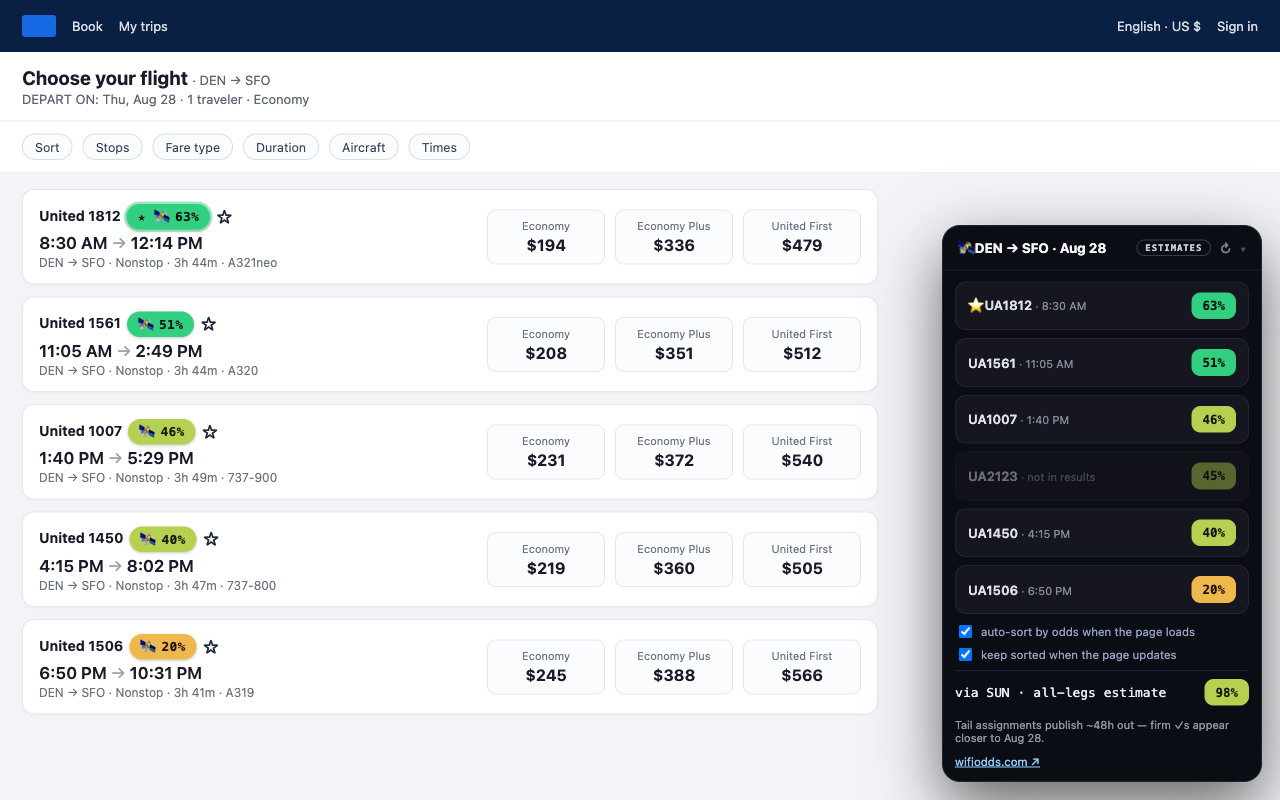
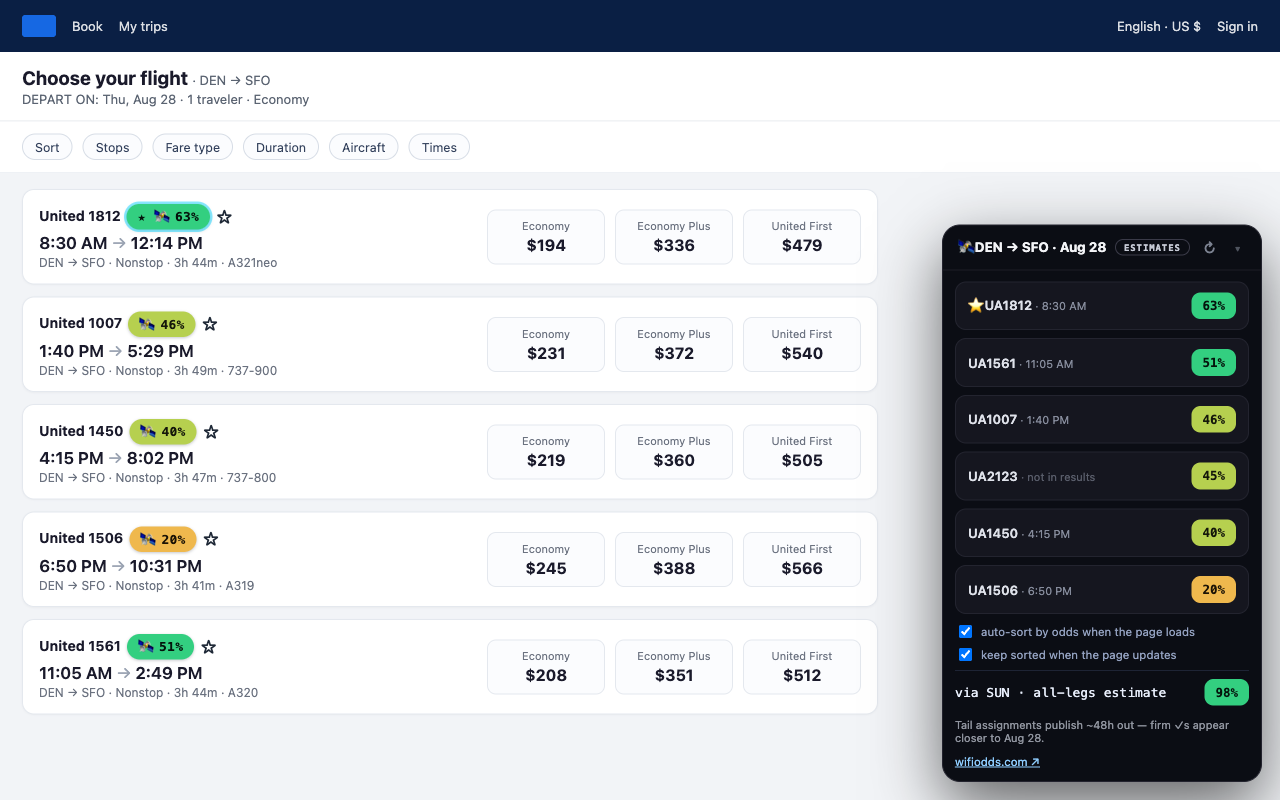
v2.2: address Codex restyle re-audit (4 P1 + 3 P2)
P1-01 panel/page no longer contradict: mergedFlights() unions route-history rows
with on-page per-flight odds (deduped, page value wins), so a visible flight is
never omitted by a stale route table. E2E asserts UA1596 ranks first.
P1-02 one ramp everywhere: best is a RING modifier (keeps its band colour), the
connection pill uses cls(joint), popup itinerary % uses pctClass.
P1-03 contrast: popup CTA near-black on the gradient; ghost rows dim only the
metadata, keeping flight number + pill >=4.5:1.
P2-01 a11y: header controls are real <button>s (aria-expanded, focus rings);
jump rows are role=button/tabindex with Enter/Space; ghost rows leave tab order.
P2-02 screenshots fail-closed (require panel+ESTIMATES+ramp; full popup, no clip).
P2-03 copy: 'nothing tracked' -> 'no account or ad tracking'.
P1-04 handled by build-store-bundle.sh (allowlist + 1280x800 check).
E2E 4/4 PASS incl. outage + first-rank.

diff --git a/extension/content.js b/extension/content.js
@@ -260,6 +260,24 @@
     return arr.sort((a, b) => b.prob - a.prob).slice(0, 6);
   }
 
+  /* United panel list = the route-history rows MERGED with the odds of the
+   * flights actually visible on the page, deduped by flight number. The on-page
+   * (current) value wins on a tie, so a flight the page shows can never be
+   * omitted just because a stale/partial route response left it out — the panel
+   * and the on-page badge can no longer contradict (Codex round-18 P1-01).
+   * Reduces to the on-page list when there is no route table (empty transcon). */
+  function mergedFlights() {
+    const map = new Map();
+    for (const f of (data && data.flights) || [])
+      if (typeof f.prob === "number") map.set(f.fn, { fn: f.fn, prob: f.prob });
+    for (const [fn, r] of registry.entries()) {
+      if (!r || !r.rowEl || !r.rowEl.isConnected) continue;
+      const hit = probMap.get(fn);
+      if (hit && typeof hit.prob === "number") map.set(fn, { fn, prob: hit.prob });
+    }
+    return [...map.values()].sort((a, b) => b.prob - a.prob).slice(0, 6);
+  }
+
   /* ── context: route + leg phase + date ── */
   function getContext() {
     if (NAVAN) return getNavanContext();
@@ -848,7 +866,9 @@
           el.dataset.uslBadged = "1";
           const b = document.createElement("span");
           const isBest = fn === bestFn && hit.prob >= 30 && !PAGE_PREDICT;
-          b.className = "usl-badge " + (isBest ? "usl-best-badge" : cls(hit.prob));
+          // "best" is a RING modifier on top of the ramp colour, never a colour
+          // replacement — a 30% best flight must stay amber, not turn green.
+          b.className = "usl-badge " + cls(hit.prob) + (isBest ? " usl-best" : "");
           b.textContent = (isBest ? "★ " : "") + "🛰 " + hit.prob + "%" + (hit.dep ? " ✓" : "");
           // "type" confidence = the tracker derived the odds from the aircraft
           // type/subfleet rather than this flight number's own history.
@@ -1031,17 +1051,21 @@
     if (!ctx) return;
     const p = document.createElement("div");
     p.className = "usl-panel";
-    chrome.storage.local.get("uslCollapsed", (v) => { if (v.uslCollapsed) p.classList.add("usl-collapsed"); });
-    const routeFlights = (data && data.flights || []).slice(0, 6);
-    // Alaska's route tool answers with prose, so the ranked list comes from the
-    // flights badged on the page (same path Navan uses). v2.2: united.com does
-    // the same when the route table is empty — it populates the panel from the
-    // on-page per-flight fallback odds, so an empty transcon shows a real ranked
-    // list of the flights actually in the results, not an empty state sitting
-    // above live badges (the contradiction Codex flagged).
-    const fromFallback = UNITED_FALLBACK && !ctx.navan && !routeFlights.length;
-    const flights = (ctx.navan || ((ALASKA || UNITED_FALLBACK) && !routeFlights.length))
-      ? navanTopFlights() : routeFlights;
+    chrome.storage.local.get("uslCollapsed", (v) => {
+      if (!v.uslCollapsed) return;
+      p.classList.add("usl-collapsed");
+      const cb = p.querySelector(".usl-x");
+      if (cb) { cb.setAttribute("aria-expanded", "false"); cb.setAttribute("aria-label", "Expand panel"); }
+    });
+    const hasRouteRows = !!(data && data.flights && data.flights.length);
+    // Navan/Alaska rank from the on-page badges (no route table). United MERGES
+    // the route-history rows with the on-page per-flight odds (mergedFlights), so
+    // a flight visible on the page is never omitted by a stale/partial route
+    // response — panel and page agree (Codex round-18 P1-01).
+    const flights = (ctx.navan || ALASKA) ? navanTopFlights() : mergedFlights();
+    // The "per-flight odds" caption shows when the list is carried purely by the
+    // on-page fallback (no route-history rows at all — the empty-transcon case).
+    const fromFallback = UNITED_FALLBACK && !ctx.navan && !hasRouteRows && flights.length > 0;
     // Display-only summary line from the tracker; escaped, never interpreted.
     const note = !flights.length && data && data.note ? data.note : "";
     const typed = flights.some((f) => { const h = probMap.get(f.fn); return h && h.conf === "type"; });
@@ -1068,11 +1092,12 @@
     p.innerHTML =
       `<header><span class="usl-rt">🛰 ${esc(ctx.o)} → ${esc(ctx.d)} · ${esc(fmtDate(ctx.date) || "WiFi odds")}${legTag}</span>` +
       `<span class="usl-rhs"><span class="usl-est" title="Historical estimates, cached up to 6h">ESTIMATES</span>` +
-      `<span class="usl-refresh" title="Refresh odds (bypass cache)">↻</span><span class="usl-x">▾</span></span></header>
+      `<button type="button" class="usl-refresh" aria-label="Refresh odds (bypass cache)" title="Refresh odds (bypass cache)">↻</button>` +
+      `<button type="button" class="usl-x" aria-expanded="true" aria-label="Collapse panel" title="Collapse">▾</button></span></header>
       <div class="usl-body">` +
       (flights.length
         ? flights.map((f, i) =>
-            `<div class="usl-row usl-jump" data-fn="${esc(f.fn)}">` +
+            `<div class="usl-row usl-jump" data-fn="${esc(f.fn)}" role="button" tabindex="0" aria-label="Jump to ${esc(f.fn)} on the page">` +
             `<span>${i === 0 ? "⭐ " : ""}${esc(f.fn)}${probMap.get(f.fn) && probMap.get(f.fn).dep ? " ✓" : ""}` +
             (isGuarded(f.fn) ? GUARD_MARK : "") +
             `<span class="usl-time" data-time="${esc(f.fn)}"></span></span>` +
@@ -1085,7 +1110,7 @@
         <label class="usl-keep-wrap" style="display:none;font-size:11.5px;color:#93a1c0;margin-top:4px;gap:6px;align-items:center;cursor:pointer">
         <input type="checkbox" class="usl-keep"> keep sorted when the page updates</label>` : "") +
       (itin ? `<div class="usl-row" style="border-top:1px solid rgba(148,178,255,.14);margin-top:6px;padding-top:8px">` +
-        `<span>via ${esc(itin.via.join("+"))} · all-legs estimate</span><span class="usl-badge usl-mid">${Math.round(itin.joint)}%</span></div>` : "") +
+        `<span>via ${esc(itin.via.join("+"))} · all-legs estimate</span><span class="usl-badge ${cls(Math.round(itin.joint))}">${Math.round(itin.joint)}%</span></div>` : "") +
       (deps.length ? `<div style="margin-top:8px;font-size:11px;opacity:.75">Confirmed tails (next ~72h): ` +
         deps.map((d) => `${esc(d.fn)} ${esc(d.date.slice(5))}`).join(" · ") + `</div>` :
         (ctx.date && daysOut(ctx.date) > 3 ? `<div style="margin-top:8px;font-size:11px;opacity:.6">Tail assignments publish ~48h out — firm ✓s appear closer to ${esc(fmtDate(ctx.date))}.</div>` : "")) +
@@ -1096,23 +1121,38 @@
       (typed ? `<span style="opacity:.55"> · odds derived from aircraft type</span>` : "") +
       (rel ? `<span style="opacity:.55"> · ✓ = confirmed Starlink tail</span>` : "") + `</div>` +
       `</div>`;
+    // Collapse control: a real <button> carrying aria-expanded. Clicking the
+    // header title (not a button) also toggles, for mouse convenience.
+    const collapseBtn = p.querySelector(".usl-x");
+    const toggleCollapse = () => {
+      const collapsed = p.classList.toggle("usl-collapsed");
+      collapseBtn.setAttribute("aria-expanded", String(!collapsed));
+      collapseBtn.setAttribute("aria-label", collapsed ? "Expand panel" : "Collapse panel");
+      chrome.storage.local.set({ uslCollapsed: collapsed });
+    };
+    collapseBtn.addEventListener("click", (ev) => { ev.stopPropagation(); toggleCollapse(); });
     p.querySelector("header").addEventListener("click", (ev) => {
-      if (ev.target.classList.contains("usl-refresh")) return;
-      p.classList.toggle("usl-collapsed");
-      chrome.storage.local.set({ uslCollapsed: p.classList.contains("usl-collapsed") });
+      if (ev.target.closest("button")) return;   // buttons handle themselves
+      toggleCollapse();
     });
-    p.querySelector(".usl-refresh").addEventListener("click", async (ev) => {
+    const refreshBtn = p.querySelector(".usl-refresh");
+    refreshBtn.addEventListener("click", async (ev) => {
       ev.stopPropagation();
-      ev.target.textContent = "…";
+      refreshBtn.textContent = "…";
       data = await loadData(ctx, true);
       indexData();
       renderPanel();
       rebadge();
     });
-    p.querySelectorAll(".usl-jump").forEach((row) => row.addEventListener("click", () => {
-      if (row.classList.contains("usl-ghost")) return;
-      gotoFlight(row.dataset.fn);
-    }));
+    // Jump rows are keyboard-operable (role=button tabindex=0): Enter/Space jump,
+    // exactly like a click; ghost rows (not on the page) neither jump nor focus.
+    p.querySelectorAll(".usl-jump").forEach((row) => {
+      const jump = () => { if (!row.classList.contains("usl-ghost")) gotoFlight(row.dataset.fn); };
+      row.addEventListener("click", jump);
+      row.addEventListener("keydown", (ev) => {
+        if (ev.key === "Enter" || ev.key === " ") { ev.preventDefault(); jump(); }
+      });
+    });
     const sb = p.querySelector(".usl-sortbtn");
     if (sb) sb.addEventListener("click", () => {
       const r = sortPage();
@@ -1181,6 +1221,10 @@
       const r = registry.get(fn);
       const onPage = !!(r && r.rowEl.isConnected);
       row.classList.toggle("usl-ghost", !onPage);
+      // Ghost rows don't jump, so they leave the tab order and mark themselves
+      // disabled to assistive tech; on-page rows are focusable button-rows.
+      row.tabIndex = onPage ? 0 : -1;
+      row.setAttribute("aria-disabled", onPage ? "false" : "true");
       row.title = onPage ? "Click to find this flight on the page" : "Not operating in these results (odds are route history)";
       const s = row.querySelector(".usl-time");
       if (s) s.textContent = onPage && r.times ? " · " + r.times.split(" – ")[0] : (onPage ? "" : " · not in results");
@@ -1246,10 +1290,12 @@
     const mayRetry = dataKey === key && dataFail && Date.now() >= dataNextTry;
     if (key === ctxKey && (data || ((ALASKA || UNITED_FALLBACK) && dataKey === key)) && !mayRetry) {
       if (!panelEl || !panelEl.isConnected) renderPanel();
-      else if (ALASKA || (UNITED_FALLBACK && emptyRoute)) {
-        // Odds arrive per flight, so re-render when the ranked (fallback) list
-        // changes — this is how an empty route's panel fills in as odds land.
-        const sig = navanTopFlights().map((f) => f.fn + f.prob).join(",");
+      else if (ALASKA || UNITED_FALLBACK) {
+        // Per-flight odds arrive after the route data, so re-render whenever the
+        // ranked list changes — this is how a page-visible flight (via fallback)
+        // gets folded into the United panel even when the route table omitted it.
+        const list = ALASKA ? navanTopFlights() : mergedFlights();
+        const sig = list.map((f) => f.fn + f.prob).join(",");
         if (sig !== navanSig) { navanSig = sig; renderPanel(); }
       }
       refreshPanelTimes();
@@ -1274,7 +1320,7 @@
       }
     }
     indexData();
-    if (ALASKA || UNITED_FALLBACK) navanSig = navanTopFlights().map((f) => f.fn + f.prob).join(",");
+    if (ALASKA || UNITED_FALLBACK) navanSig = (ALASKA ? navanTopFlights() : mergedFlights()).map((f) => f.fn + f.prob).join(",");
     renderPanel();
     rebadge();
   }

diff --git a/extension/content.css b/extension/content.css
@@ -115,8 +115,13 @@
 
 /* v1.1.1 */
 .usl-na{color:#93a1c0;border-color:rgba(147,161,192,.4);background:rgba(147,161,192,.08)}
-.usl-ghost{opacity:.45;cursor:default}
+.usl-ghost{cursor:default}
 .usl-ghost:hover{background:transparent}
+/* Ghost = a panel flight not currently on the page. Recede the row's surface and
+   dim only the "· not in results" metadata — the flight number and the odds pill
+   stay at full contrast (≥4.5:1), never faded with the whole row (Codex P1-03). */
+.usl-panel .usl-ghost{opacity:1;background:#101119;border-color:#1e1f28}
+.usl-panel .usl-ghost .usl-time{opacity:.6}
 
 /* v1.4 trip monitor — unfilled state restyled in 1.6 (see below).
  * The original was pale gold at opacity .55: a hairline yellow outline on a
@@ -184,16 +189,19 @@
 /* v2.2 — ONE consistent odds ramp, high → low likelihood, used identically
  * on-page (white host rows) AND in the dark panel. Light fills + near-black text
  * read on both. The ramp is monotonic: green (likely) → lime → amber → coral
- * (unlikely). Grey is reserved for UNKNOWN, never a zero; the ✓ best-badge is the
- * green top of the ramp plus a ring. Every band clears 4.5:1 (dark text/light
- * fill). cls() in content.js maps ≥50→hi, 35–49→mid, 20–34→low, <20→no. */
+ * (unlikely). Grey is reserved for UNKNOWN, never a zero; "best" is a RING
+ * modifier that keeps the flight's true ramp colour. Every band clears 4.5:1
+ * (dark text/light fill). cls() in content.js maps ≥50→hi, 35–49→mid, 20–34→low,
+ * <20→no — the ONE shared threshold contract used by every surface. */
 .usl-badge{font-size:13px;font-weight:800;padding:3px 11px;color:#0a0a12;background:#9aa8bb;border:none;box-shadow:0 1px 3px rgba(16,24,40,.24);letter-spacing:.2px;line-height:1.5}
 .usl-badge.usl-hi{background:#33cf80;color:#04140c}    /* likely  */
 .usl-badge.usl-mid{background:#b6d04f;color:#14170a}   /*  ↕      */
 .usl-badge.usl-low{background:#efb84d;color:#1c1305}   /*  ↕      */
 .usl-badge.usl-no{background:#ef8168;color:#210a06}    /* unlikely*/
 .usl-badge.usl-na{background:#656b76;color:#fff}       /* unknown, never zero */
-.usl-badge.usl-best-badge{background:#33cf80;color:#04140c;box-shadow:0 0 0 2.5px rgba(51,207,128,.42),0 1px 4px rgba(16,24,40,.3)}
+/* "best" is a ring only — the ramp band (usl-hi/mid/low/no) still sets the fill
+   and text colour, so the best flight keeps its true likelihood colour. */
+.usl-badge.usl-best{box-shadow:0 0 0 2.5px rgba(41,216,255,.55),0 1px 4px rgba(16,24,40,.3)}
 .usl-panel .usl-badge{font-size:12px;padding:2px 9px}
 
 /* v2.0 — Google Flights chips.
@@ -282,3 +290,18 @@ span.usl-watching:focus-visible{
 }
 .usl-panel .usl-sortbtn:hover{filter:brightness(1.07);background:linear-gradient(90deg,#29d8ff,#7b8cff 55%,#926cff)}
 .usl-panel a{color:#8ecdff}
+
+/* v2.2 accessibility (Codex P2-01): the header controls are real <button>s and
+   the flight rows are role=button/tabindex — reset the button chrome and give
+   every interactive control a visible keyboard focus ring. */
+.usl-panel .usl-refresh,.usl-panel .usl-x{
+  background:none;border:none;padding:2px 5px;margin:0;cursor:pointer;color:#7b8190;
+  font:inherit;font-size:14px;line-height:1;border-radius:6px;
+}
+.usl-panel .usl-refresh:hover,.usl-panel .usl-x:hover{color:#cfd3dc}
+.usl-panel .usl-jump{outline:none}
+.usl-panel .usl-refresh:focus-visible,.usl-panel .usl-x:focus-visible,
+.usl-panel .usl-jump:focus-visible,.usl-panel .usl-sortbtn:focus-visible,
+.usl-panel .usl-auto:focus-visible,.usl-panel .usl-keep:focus-visible{
+  outline:2px solid #29d8ff;outline-offset:2px;
+}

diff --git a/extension/popup.js b/extension/popup.js
@@ -114,10 +114,16 @@ function renderItins(itins) {
   wrap.appendChild(el("div", "usl-section-label", "Best itineraries"));
   top.forEach(function (it) {
     var path = (it.via && it.via.length ? it.via : []).join(" → ");
-    var text = path
-      ? path + " · " + it.joint + "% · " + it.hours + "h"
-      : it.joint + "% · " + it.hours + "h";
-    wrap.appendChild(el("div", "usl-itin-row", text));
+    // The joint % rides the SAME ramp/pill as flight odds (pctClass), not plain
+    // text — one consistent scale on every surface.
+    var row = el("div", "usl-itin-row");
+    row.style.display = "flex";
+    row.style.alignItems = "center";
+    row.style.justifyContent = "space-between";
+    row.style.gap = "8px";
+    row.appendChild(el("span", null, (path ? path + " · " : "") + it.hours + "h"));
+    row.appendChild(el("span", "usl-pct " + pctClass(it.joint), it.joint + "%"));
+    wrap.appendChild(row);
   });
   return wrap;
 }

diff --git a/extension/popup.html b/extension/popup.html
@@ -98,7 +98,9 @@
     font-family: var(--mono);
     font-weight: 700;
     font-size: 13px;
-    color: #fff;
+    /* Near-black on the light cyan→violet gradient (white was 1.70:1 / 3.61:1;
+       near-black is 11.92:1 / 5.60:1) — matches the panel's gradient action. */
+    color: #05060a;
     background: linear-gradient(135deg, var(--united-blue), var(--united-blue-2));
     border: none;
     border-radius: 8px;

diff --git a/test/out/phase2-report.md b/test/out/phase2-report.md
@@ -1,6 +1,6 @@
 # Phase 2 — browser E2E (extension loaded, real tracker, fixtured united.com)
 
-Run: 2026-07-29T19:04:02.645Z
+Run: 2026-07-30T01:35:56.035Z
 Service worker: chrome-extension://oiihcooamibbaoakhnmedaijgbopfmpe/bg.js
 Console errors during run: none
 
@@ -11,40 +11,42 @@ Checks: `{"newEmptyCopy":true,"oldContradictionGone":true,"connectionLabelled":t
 
 Panel text as rendered:
 ```
-🛰 LAX→EWR · Aug 28
-↻ ▾
+🛰 LAX → EWR · Aug 29
+ESTIMATES
+↻
+▾
 No direct-flight Starlink history yet. Connection estimate below.
-via MCI · all-legs estimate
+via AUS · all-legs estimate
 96%
-Tail assignments publish ~48h out — firm ✓s appear closer to Aug 28.
+Tail assignments publish ~48h out — firm ✓s appear closer to Aug 29.
 wifiodds.com ↗
 ```
 Screenshot: `out/shots/LAX-EWR-empty-with-connection.png`
 
 ## SFO→DEN — SFO-DEN-positive
-Panel rendered: **yes** · badges on page: `★ 🛰 68%` `🛰 41%` `68%` `41%` `40%` `30%` `30%` `96%`
+Panel rendered: **yes** · badges on page: `★ 🛰 68%` `★ 🛰 41%` `68%` `41%` `40%` `30%` `96%`
 
-Checks: `{"listsUA1596":true,"noEmptyCopy":true}`
+Checks: `{"listsUA1596":true,"ua1596RanksFirst":true,"noEmptyCopy":true}`
 
 Panel text as rendered:
 ```
-🛰 SFO→DEN · Aug 28
-↻ ▾
+🛰 SFO → DEN · Aug 29
+ESTIMATES
+↻
+▾
 ⭐ UA1596 · 8:30 a.m.
 68%
 UA1214 · 11:05 a.m.
 41%
 UA2019 · not in results
 40%
-UA1758 · not in results
-30%
 UA540 · not in results
 30%
 auto-sort by odds when the page loads
 keep sorted when the page updates
 via MSO · all-legs estimate
 96%
-Tail assignments publish ~48h out — firm ✓s appear closer to Aug 28.
+Tail assignments publish ~48h out — firm ✓s appear closer to Aug 29.
 wifiodds.com ↗
 ```
 Screenshot: `out/shots/SFO-DEN-positive.png`
@@ -56,8 +58,10 @@ Checks: `{"ua2402RealOdds":true,"ua1596RealOdds":true,"panelListsFlights":true,"
 
 Panel text as rendered:
 ```
-🛰 SFO→SIN · Aug 28
-↻ ▾
+🛰 SFO → SIN · Aug 29
+ESTIMATES
+↻
+▾
 ⭐ UA1596 · 10:30 a.m.
 68%
 UA2402 · 2:15 p.m.
@@ -65,7 +69,7 @@ UA2402 · 2:15 p.m.
 Flights in these results · per-flight odds (no Starlink route history yet)
 auto-sort by odds when the page loads
 keep sorted when the page updates
-Tail assignments publish ~48h out — firm ✓s appear closer to Aug 28.
+Tail assignments publish ~48h out — firm ✓s appear closer to Aug 29.
 wifiodds.com ↗
 ```
 Screenshot: `out/shots/united-fallback-real-odds.png`
@@ -77,10 +81,12 @@ Checks: `{"saysUnavailable":true,"notFalseAbsence":true}`
 
 Panel text as rendered:
 ```
-🛰 DEN→SFO · Aug 28
-↻ ▾
+🛰 DEN → SFO · Aug 29
+ESTIMATES
+↻
+▾
 Direct-flight history unavailable right now.
-Tail assignments publish ~48h out — firm ✓s appear closer to Aug 28.
+Tail assignments publish ~48h out — firm ✓s appear closer to Aug 29.
 wifiodds.com ↗
 ```
 Screenshot: `out/shots/united-outage-unavailable.png`
